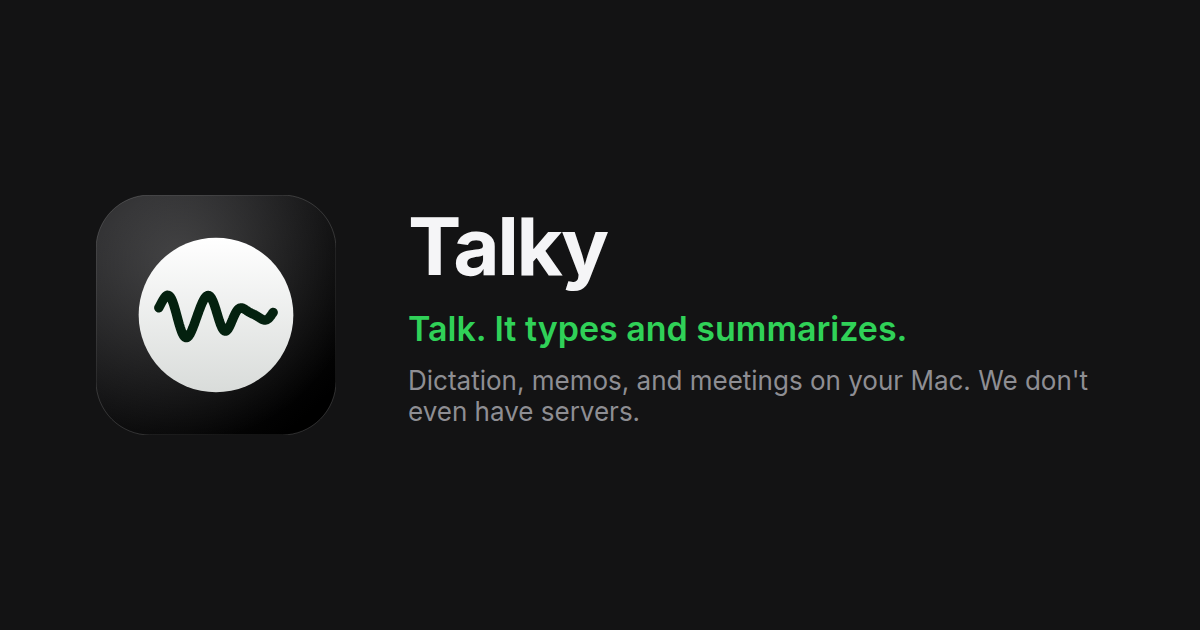
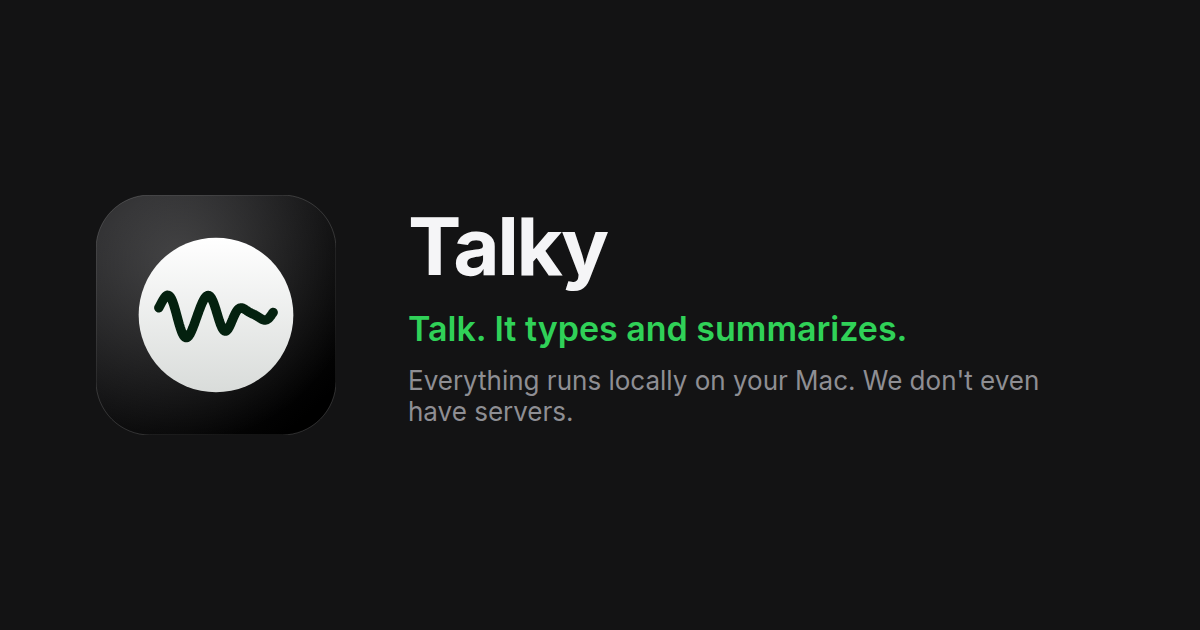
Hero v2: eyebrow, lead dwulinijkowy, meta/og
Dictation/voice memos/meetings nad H1; lokalnie na Mac + serwery w leadzie.

Changed region(s): [[0.3392, 0.573, 0.925, 0.6937]]

diff --git a/index.html b/index.html
@@ -5,21 +5,21 @@
   <meta name="viewport" content="width=device-width, initial-scale=1">
   <meta name="robots" content="noindex">
   <title>Talky: Talk. It types and summarizes. | Dictation for Mac</title>
-  <meta name="description" content="Hold Control and Shift, speak, and your words appear where your cursor is. Dictation, voice memos, and meetings on your Mac. Audio does not go to Talky servers—we don't even have servers.">
+  <meta name="description" content="Hold Control and Shift, speak, and your words appear where your cursor is. Everything runs locally on your Mac. Audio does not go to Talky servers. We don't even have servers.">
   <link rel="canonical" href="https://talky.dawidw.pl/">
   <meta property="og:type" content="website">
   <meta property="og:title" content="Talky: Talk. It types and summarizes.">
-  <meta property="og:description" content="Hold ⌃⇧, speak, and your words appear at the cursor. Dictation, memos, and meetings on your Mac. Audio does not go to Talky servers—we don't even have servers.">
+  <meta property="og:description" content="Hold ⌃⇧, speak, and your words appear where your cursor is. Everything runs locally on your Mac. Audio does not go to Talky servers. We don't even have servers.">
   <meta property="og:url" content="https://talky.dawidw.pl/">
   <meta property="og:image" content="https://talky.dawidw.pl/og-image.png">
   <meta name="twitter:card" content="summary_large_image">
   <meta name="twitter:title" content="Talky: Talk. It types and summarizes.">
-  <meta name="twitter:description" content="Hold ⌃⇧, speak, and your words appear at the cursor. Dictation, memos, and meetings on your Mac. Audio does not go to Talky servers—we don't even have servers.">
+  <meta name="twitter:description" content="Hold ⌃⇧, speak, and your words appear where your cursor is. Everything runs locally on your Mac. Audio does not go to Talky servers. We don't even have servers.">
   <meta name="twitter:image" content="https://talky.dawidw.pl/og-image.png">
   <link rel="icon" href="/favicon.svg" type="image/svg+xml">
   <link rel="icon" href="/favicon.png" type="image/png">
   <link rel="apple-touch-icon" href="/apple-touch-icon.png">
-  <link rel="stylesheet" href="/site.css?v=hero-copy">
+  <link rel="stylesheet" href="/site.css?v=hero-v2">
   <link rel="stylesheet" href="/assets/talky-demo/talky-demo.css?v=10">
   <script type="application/ld+json">
   {
@@ -64,10 +64,10 @@
     <section class="hero wrap">
       <p class="hero-badges">
         <span class="tag tag-soon">Coming soon</span>
-        <span class="tag">Dictation and meetings on Mac</span>
+        <span class="hero-eyebrow">Dictation, voice memos, and meetings</span>
       </p>
       <h1>Talk. It types and summarizes.</h1>
-      <p class="lead">Hold <span class="kbd-group" aria-label="Control Shift"><span class="kbd">⌃</span><span class="kbd">⇧</span></span>, speak, and your words appear where your cursor is. Dictation, voice memos, and meetings run on your Mac. Audio does not go to Talky servers. We don't even have servers!</p>
+      <p class="lead">Hold <span class="kbd-group" aria-label="Control Shift"><span class="kbd">⌃</span><span class="kbd">⇧</span></span>, speak, and your words appear where your cursor is. Everything runs locally on your Mac.<br>Audio does not go to Talky servers. We don't even have servers!</p>
       <div class="ctas">
         <span class="btn-primary lg btn-coming-soon" role="status">Coming soon</span>
         <a class="btn-secondary" href="#how">See how it works</a>

diff --git a/site.css b/site.css
@@ -257,9 +257,17 @@ nav .nav-toggle {
 .hero-badges {
   display: flex;
   flex-wrap: wrap;
-  gap: 8px;
+  gap: 10px 14px;
   justify-content: center;
   align-items: center;
+}
+
+.hero-eyebrow {
+  font-size: 13px;
+  font-weight: 600;
+  letter-spacing: 0.06em;
+  text-transform: uppercase;
+  color: var(--muted);
 }
 
 .hero .tag-soon,
